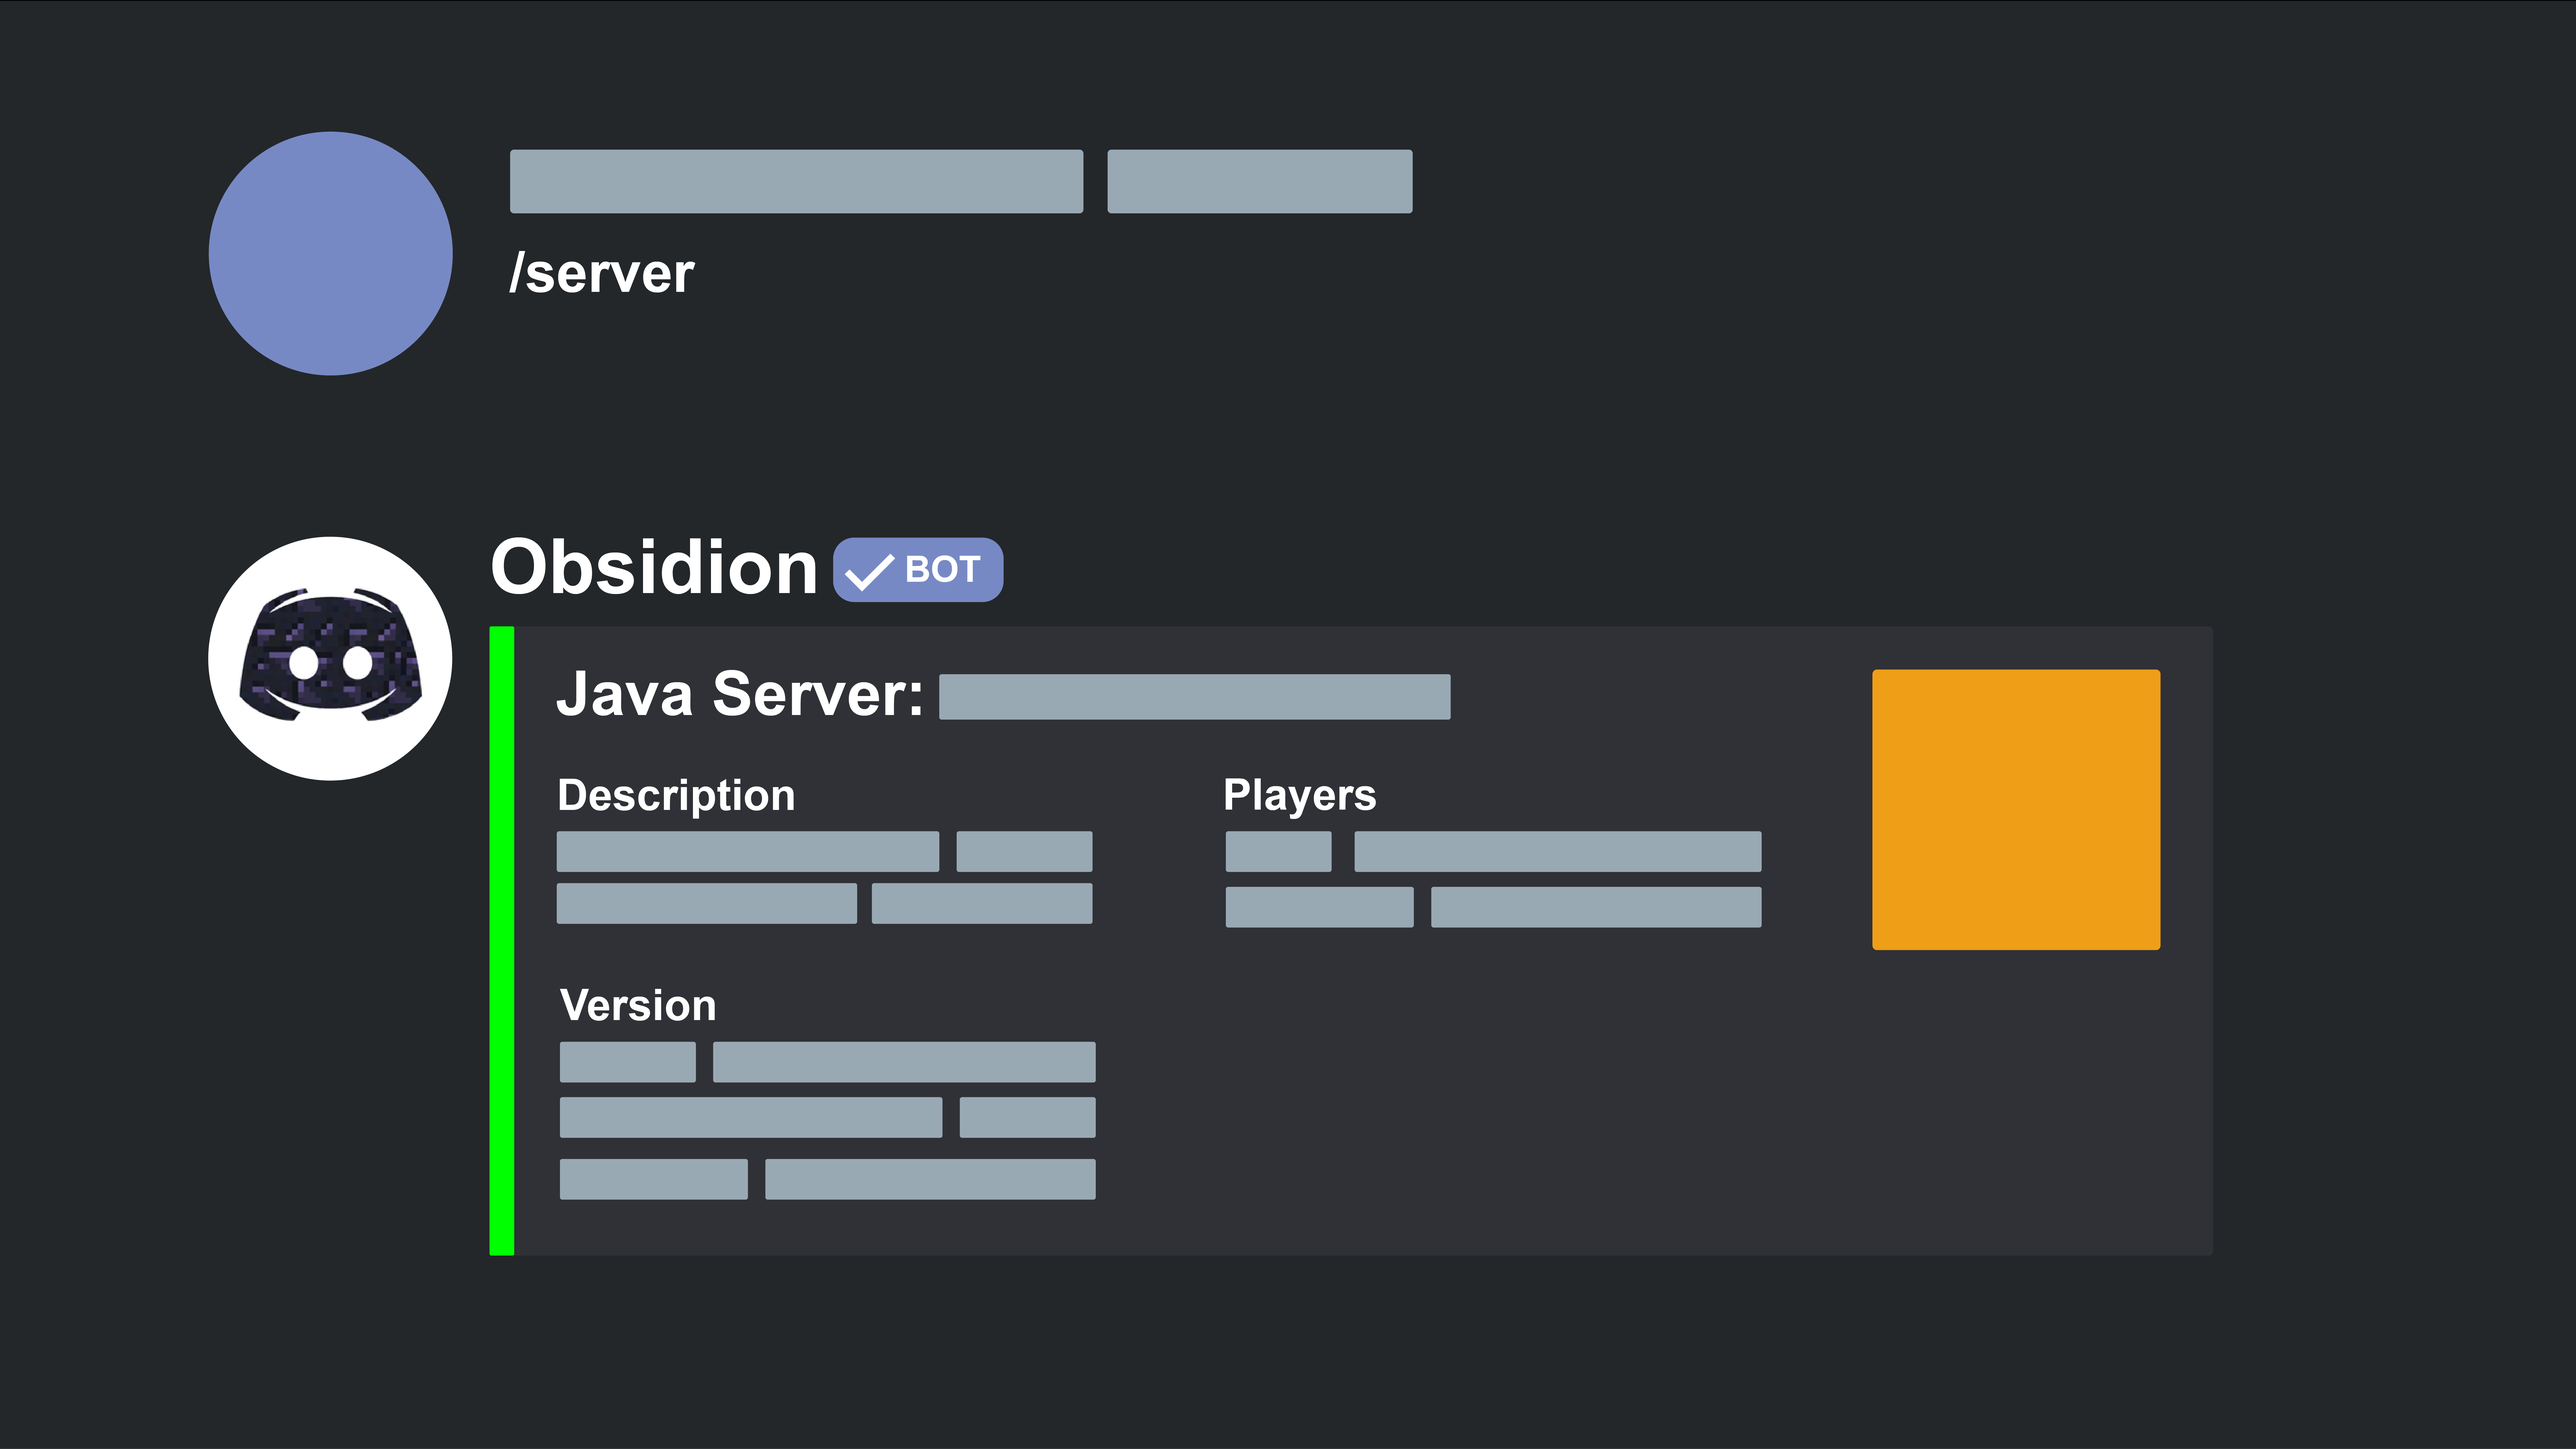
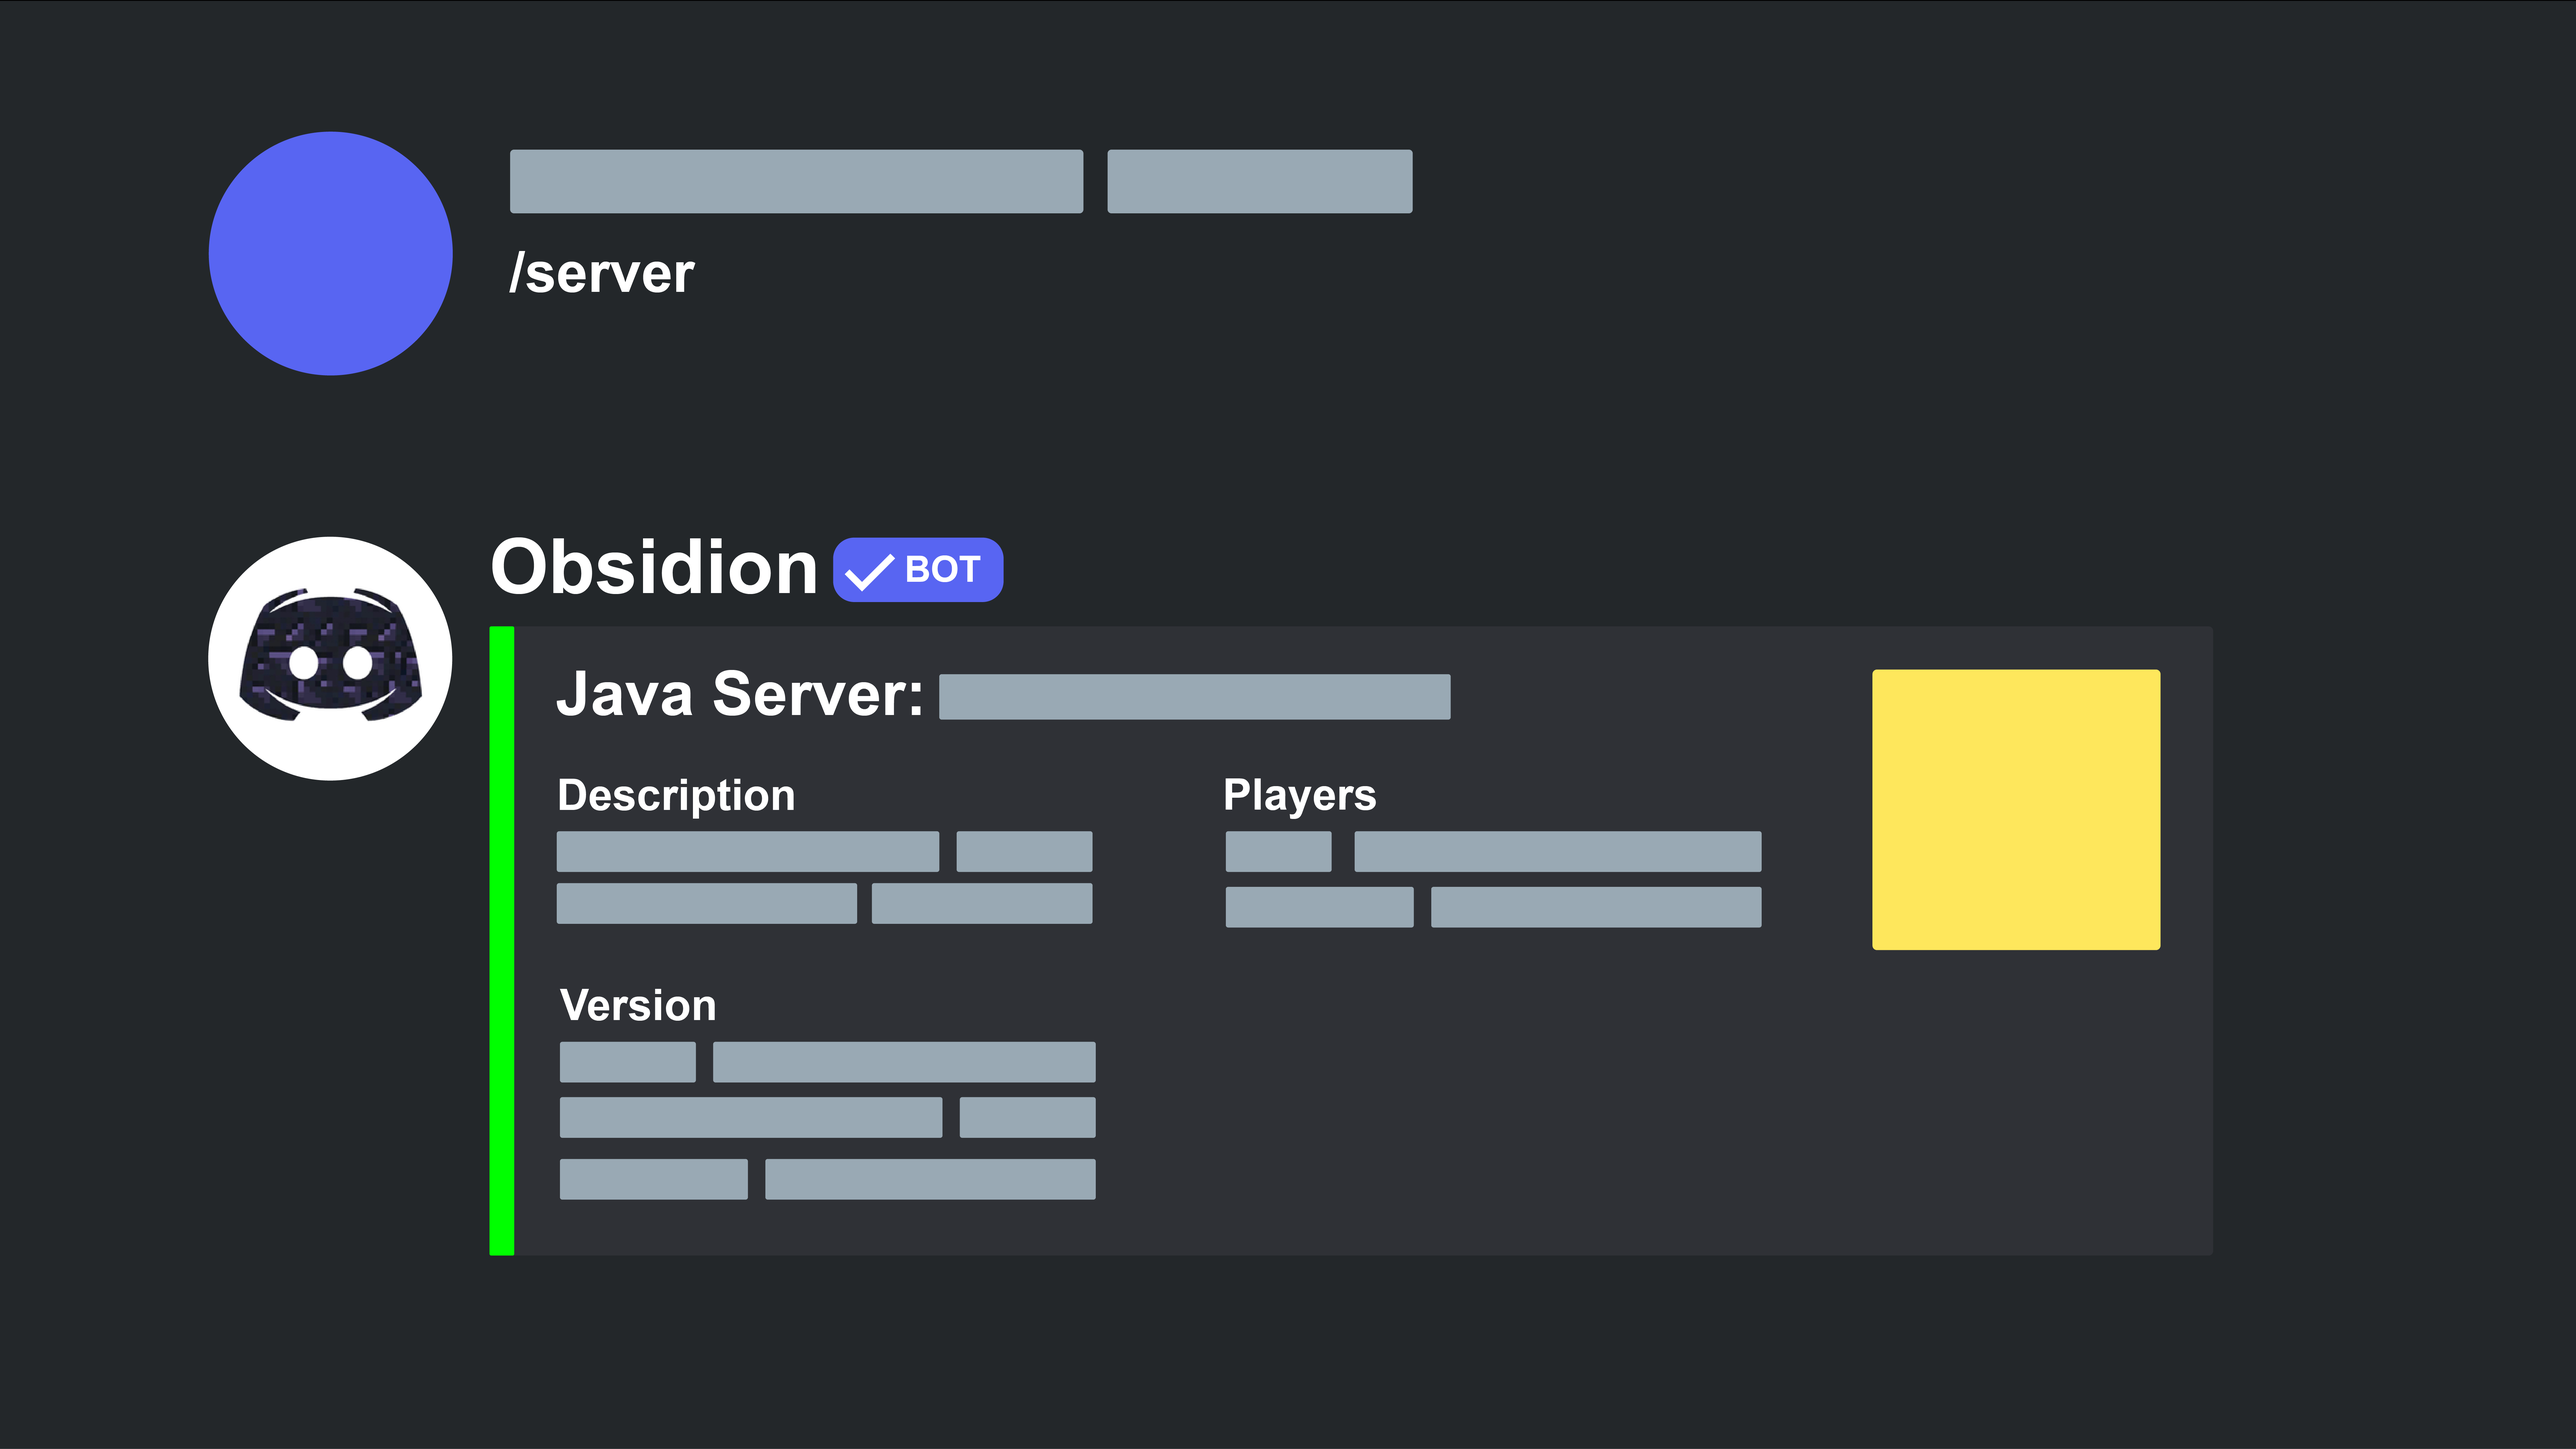
Update discord colors

Changed region(s): [[0.7188, 0.4353, 0.8438, 0.6529], [0.0625, 0.0933, 0.1875, 0.2798], [0.3125, 0.3731, 0.4062, 0.4353]]

diff --git a/index.html b/index.html
@@ -9,11 +9,12 @@
         <script src="https://cdn.jsdelivr.net/npm/bootstrap@4.5.3/dist/js/bootstrap.bundle.min.js" integrity="sha384-ho+j7jyWK8fNQe+A12Hb8AhRq26LrZ/JpcUGGOn+Y7RsweNrtN/tE3MoK7ZeZDyx" crossorigin="anonymous"></script>
         <link rel="stylesheet" href="https://unpkg.com/flickity@2/dist/flickity.min.css">
         <script src="https://unpkg.com/flickity@2/dist/flickity.pkgd.min.js"></script>
+        <link rel="stylesheet" href="https://cdnjs.cloudflare.com/ajax/libs/animate.css/4.1.1/animate.min.css"/>
         <meta name="viewport" content="width=device-width, initial-scale=1">
     </head>
     <body>
         <!--Navbar-->
-        <nav class="navbar navbar-expand-lg navbar-light fixed-top" style="background-color: white;">
+        <nav class="navbar navbar-expand-lg navbar-light fixed-top animate__slideInLeft" style="background-color: white;">
             <a class="navbar-brand" href="#" style=" font-size: 25px;"><b>Obsidion Dev</b></a>
             <button class="navbar-toggler" type="button" data-toggle="collapse" data-target="#navbarNav" aria-controls="navbarNav" aria-expanded="false" aria-label="Toggle navigation">
                 <span class="navbar-toggler-icon"></span>

diff --git a/CSS/main.css b/CSS/main.css
@@ -16,7 +16,7 @@ html {
     display: flex;
     justify-content: center;
     align-items: center;
-    background: #7289DA;
+    background: #5865F2;
     width: 100%;
     height: 850px;
     margin-right: 10px;
@@ -90,7 +90,7 @@ html {
 }
 
 .btn-slider {
-    background-color: #7289DA;
+    background-color: #5865F2;
     color: white;
     border-radius: 10px;
     width: 250px;
@@ -127,7 +127,7 @@ section {
 }
 
 #obsidion {
-    background-color: #7289DA;
+    background-color: #5865F2;
 }
 
 #mcsrvstats {
